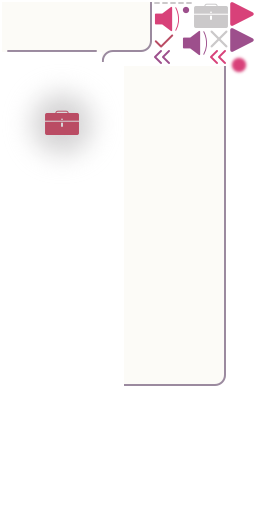
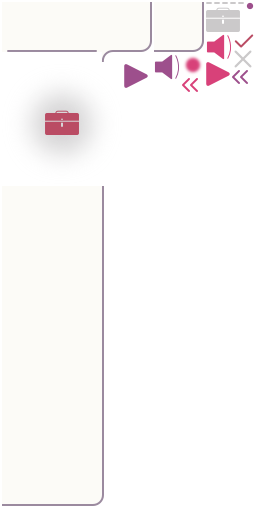
add top left controls panel

Changed region(s): [[0.4688, 0.0, 1.0, 0.75], [0.0312, 0.375, 0.4062, 1.0], [0.5, 0.75, 0.8438, 0.7812]]

diff --git a/PttrnFlow/PttrnFlow/Layers/PanLayer.m b/PttrnFlow/PttrnFlow/Layers/PanLayer.m
@@ -53,24 +53,20 @@ static CGFloat const kDecelerationInterval = 1.0 / 120.0;
     
     switch (pan.state) {
         case UIGestureRecognizerStateBegan: {
-            
             self.panStartLocation = self.position;
             break;
         }
         case UIGestureRecognizerStateChanged: {
-            
             self.position = CGPointMake(self.panStartLocation.x + (translation.x * [@(self.allowsPanHorizontal) integerValue]),
                                         self.panStartLocation.y + (translation.y * [@(self.allowsPanVertical) integerValue]));
             break;
         }
         case UIGestureRecognizerStateEnded: {
-            
             self.velocity = velocity;
             [self schedule:@selector(decelarate:) interval:kDecelerationInterval];
             break;
         }
         case UIGestureRecognizerStateCancelled: {
-            
             break;
         }
         default: {

diff --git a/PttrnFlow/PttrnFlow/Layers/SequenceUILayer.m b/PttrnFlow/PttrnFlow/Layers/SequenceUILayer.m
@@ -94,6 +94,12 @@ static NSInteger const kMaxControlLength = 7;
         leftControlsPanel.position = ccp(0, 0);
         [self.uiBatchNode addChild:leftControlsPanel];
         
+        // top left controls panel
+        CCSprite *topLeftControlsPanel = [CCSprite spriteWithSpriteFrameName:@"controls_panel_top_left.png"];
+        topLeftControlsPanel.anchorPoint = ccp(0, 1);
+        topLeftControlsPanel.position = ccp(0, self.contentSize.height);
+        [self.uiBatchNode addChild:topLeftControlsPanel];
+        
         // add ui batch below buttons (ccmenu not compatible with batch) and pan sprite (clipping using glscissor also not compatible with batch)
         [self addChild:uiBatch];
         
